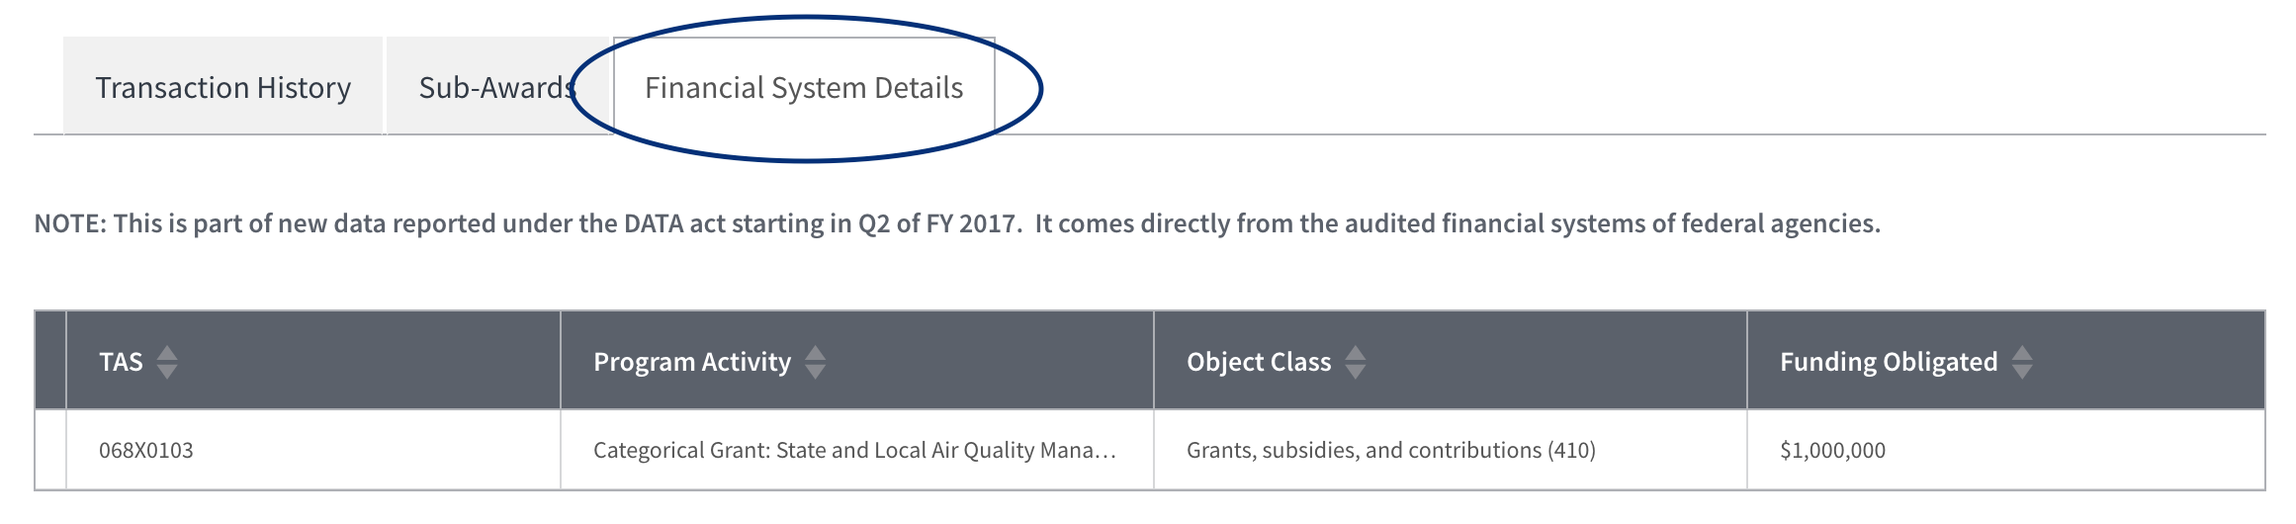
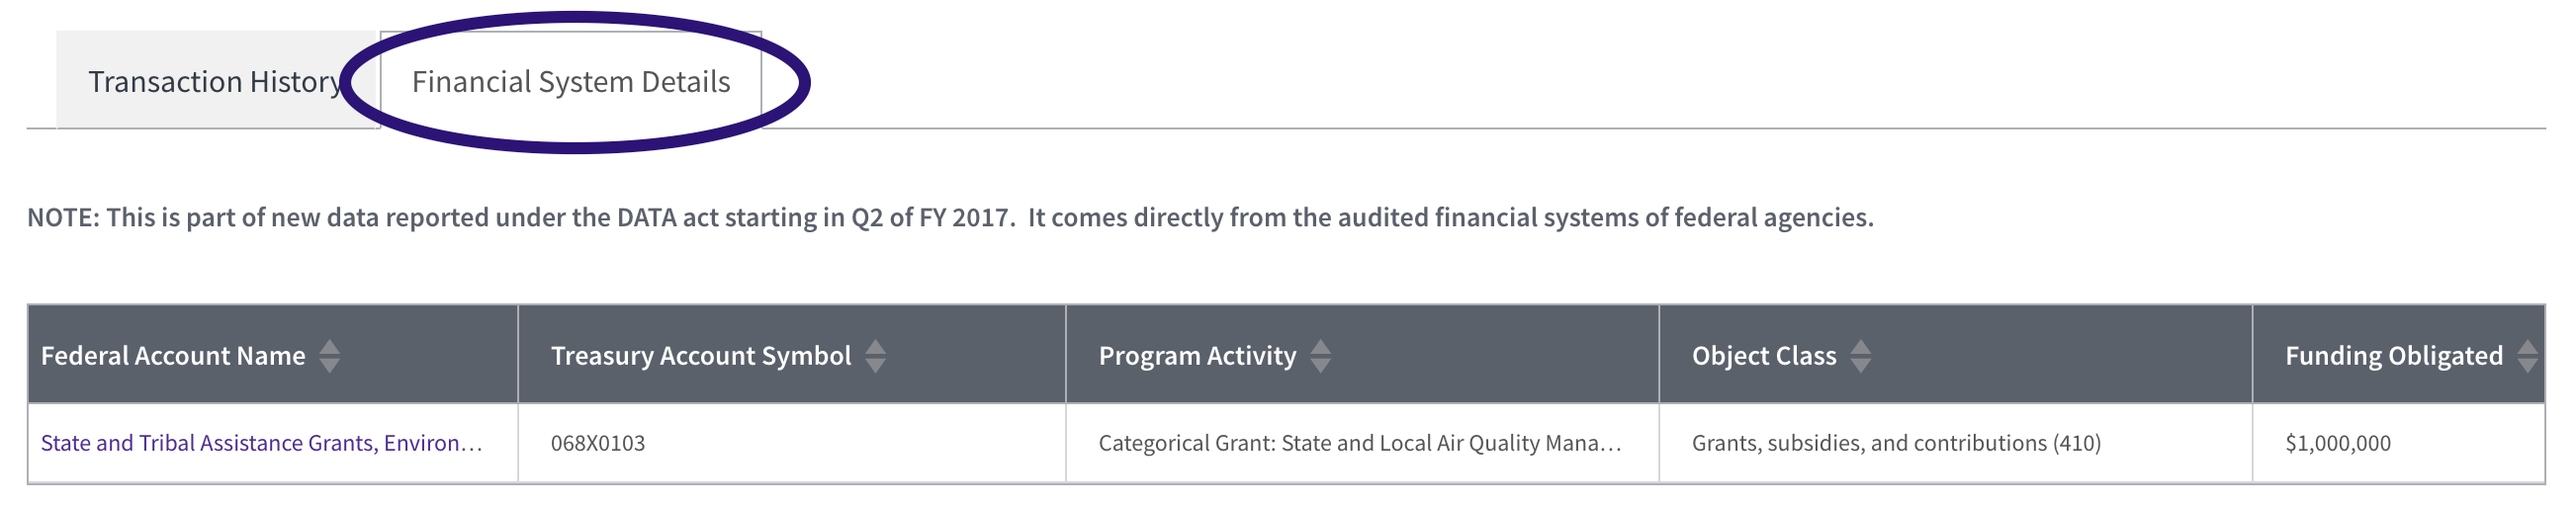
Update links and federal account instructions (#15)
* Update account and award links

* Correct the name of the program activity filter

* Update federal account instructions

Now that a link to award federal account information has been
added to the financial details table, update these instructions
accordingly.

diff --git a/writing/hierarchy_start_bottom.md b/writing/hierarchy_start_bottom.md
@@ -39,7 +39,7 @@ Other parts were available in bits and pieces but weren't public, searchable, an
 
 Nothing against awards data. It's useful. Awards describe grants, contracts, and loans. This category of federal spending also includes information about payments the U.S. government makes on behalf of individuals, like Social Security and Medicare payments. Awards are a terrific way to understand how our collective tax dollars flow back into our communities.
 
-For example, [here's a grant](https://beta.usaspending.gov/#/award/982394) that Philadelphia, PA received from the Environmental Protection Agency to _provide assistance to the City of Philadelphia in its efforts to implement air pollution control programs_.
+For example, [here's a grant](https://beta.usaspending.gov/#/award/642199) that Philadelphia, PA received from the Environmental Protection Agency to _provide assistance to the City of Philadelphia in its efforts to implement air pollution control programs_.
 
 ![Philly EPA air pollution control grant](img/philly-epa-grant.png "Philly EPA air pollution control grant")
 
@@ -78,7 +78,7 @@ This is already more information than we could have extracted from the current u
 
 ### Program Activity: a brief technical aside
 
-Beta.usaspending.gov is in...beta. Thus, there's currently no easy way to look up everything related to a specific program activity. (hint: there's [community forum](https://usaspending-help.zendesk.com/hc/en-us/community/topics "beta.usaspending.gov community forum") where you can do your patriotic duty by suggesting improvements and features).
+Beta.usaspending.gov is in...beta. Thus, there's currently no easy way to look up everything related to a specific program activity. (hint: there's a [community forum](https://usaspending-help.zendesk.com/hc/en-us/community/topics "beta.usaspending.gov community forum") where you can do your patriotic duty by suggesting improvements and features).
 
 That said, you can get geeky and use the [USAspending API](https://api.usaspending.gov/) to follow the trail. The API (application programming interface) is the behind-the-scenes way that the website retrieves data. Luckily, the API not only powers the website: it's also available for the public to query.
 
@@ -135,7 +135,7 @@ The code above generates a dataset that looks like this (headers abbreviated for
 
 ### Program Activity: but what does this tell us?
 
-We've now followed a single award up the federal spending chain to get a list of other awards that are funded from that same `State and Local Air Quality` program. Some of these awards are grants, similar to the one that went to Philly. Others are contracts that appear to be program-related services like [air monitoring equipment](https://beta.usaspending.gov/#/award/984045) and [databases](https://beta.usaspending.gov/#/award/983715).
+We've now followed a single award up the federal spending chain to get a list of other awards that are funded from that same `State and Local Air Quality` program. Some of these awards are grants, similar to the one that went to Philly. Others are contracts that appear to be program-related services like air monitoring equipment and databases.
 
 We had to dig into the API to do this, but I suspect the website itself will eventually support this type of sleuthing (the team releases new features bi-weekly).
 
@@ -150,30 +150,14 @@ But again, _awards_ spending is only part of the picture. Presumably there are o
 
 Loosely speaking, a federal account represents a high-level grouping of specific, related Treasury accounts. Simplistically, you can think of Treasury accounts as funds that correspond to Congress authorizations to spend money for specific purposes.
 
-### Search for an account
-
-In the table of air quality grants that we got from the API, you can see that all of them are associated with a federal account titled `State and Tribal Assistance Grants, Environmental Protection Agency`.
-
-Now that we know this title, we can look it up on the [search page of beta.usaspending.api](https://beta.usaspending.gov/#/search "USAspending search").
-
-![federal account search](img/usaspending-search-epa-account.png "federal account search")
-
-The result of that search will be a view of the money obligated for of this specific account: $369,943,892, for fiscal year 2017 to date.
-
-(An _obligation_ means that money has been set aside for a designated purpose, to be paid later.)
-
 
 ### View an account
 
-It's not immediately obvious, but the search results page lets you jump right to the _Federal Accounts_ level of the spending hiearchy. Look for the _Spending by Budget Category_ chart and choose the _Federal Accounts_ view to see spending by federal account.
+An award's federal account is listed in the _Financial System Details_ table (_i.e._, the same table that shows the object class and program activity).
 
-![spending-by-federal-accounts](img/spending-by-federal-accounts.png "spending-by-federal-accounts")
+![federal account name](img/federal-account-link.png "federal account view")
 
-In this case, you'll only see one account, because we only searched for one. What you want is that hyperlink on the y axis: https://beta.usaspending.gov/#/federal_account/1752
-
-Click it for a high-level view of activity for the entire account: not just awards spending.
-
-![federal account view](img/federal-account-view.png "federal account view")
+Click on that account name to see a high-level view of its activity. In this case, the link goes to [https://beta.usaspending.gov/#/federal_account/1574](https://beta.usaspending.gov/#/federal_account/1574).
 
 You're now looking at the _Federal Account Summary_ page, which displays the details of an individual federal account:
 
@@ -181,13 +165,16 @@ You're now looking at the _Federal Account Summary_ page, which displays the det
 * spend by program activity and object class
 * individual awards that have been funded from the account
 
+![federal account view](img/federal-account-view.png "federal account view")
+
+
 ### Filter an account
 
 Back to our original EPA air quality award to Philadelphia and the `State and Tribal Assistance Grants, Environmental Protection Agency` program that funds it.
 
 The _Federal Account Summary_ page lets you drill into a federal account by any combination of program activity codes and object classes. Thus, to better understand the **overall** spending for `State and Tribal Assistance Grants, Environmental Protection Agency` (not just grants), you would:
 
-1. Filter by the `State and Tribal Assistance Grants, Environmental Protection Agency` program activity (left-hand side of the screen)
+1. Filter by the `Categorial Grant: State and Local Air Quality Management` program activity (left-hand side of the screen)
 2. Switch the _Spending by Category_ graph to the _Object Class_ view
 
 Now you have the high-level categories of spending for this program.
@@ -204,7 +191,7 @@ You can switch up the filters on the left-hand side of the screen to explore the
 
 Many of us view federal spending solely from the perspective of award data, because it's all we've had access to in a convenient, machine-readable format.
 
-Before the DATA Act, the only thing we could see was the $1,000,000 grant to City of Philadelphia. Post-DATA Act, we have the context that federal spending nerds have dreamed of for decades:
+Before the DATA Act, the only thing we could see was the $1,000,000 grant to City of Philadelphia. Post-DATA Act, we have the context that federal spending nerds have dreamed of for decades. As of May, 2017:
 
 * So far in fiscal year 2017, we've obligated $20.4 billion within the `Natural Resources` budget function
 * Of that, 2% ($397 million) has been obligated within the  `State and Tribal Assistance Grants, Environmental Protection Agency` federal account
